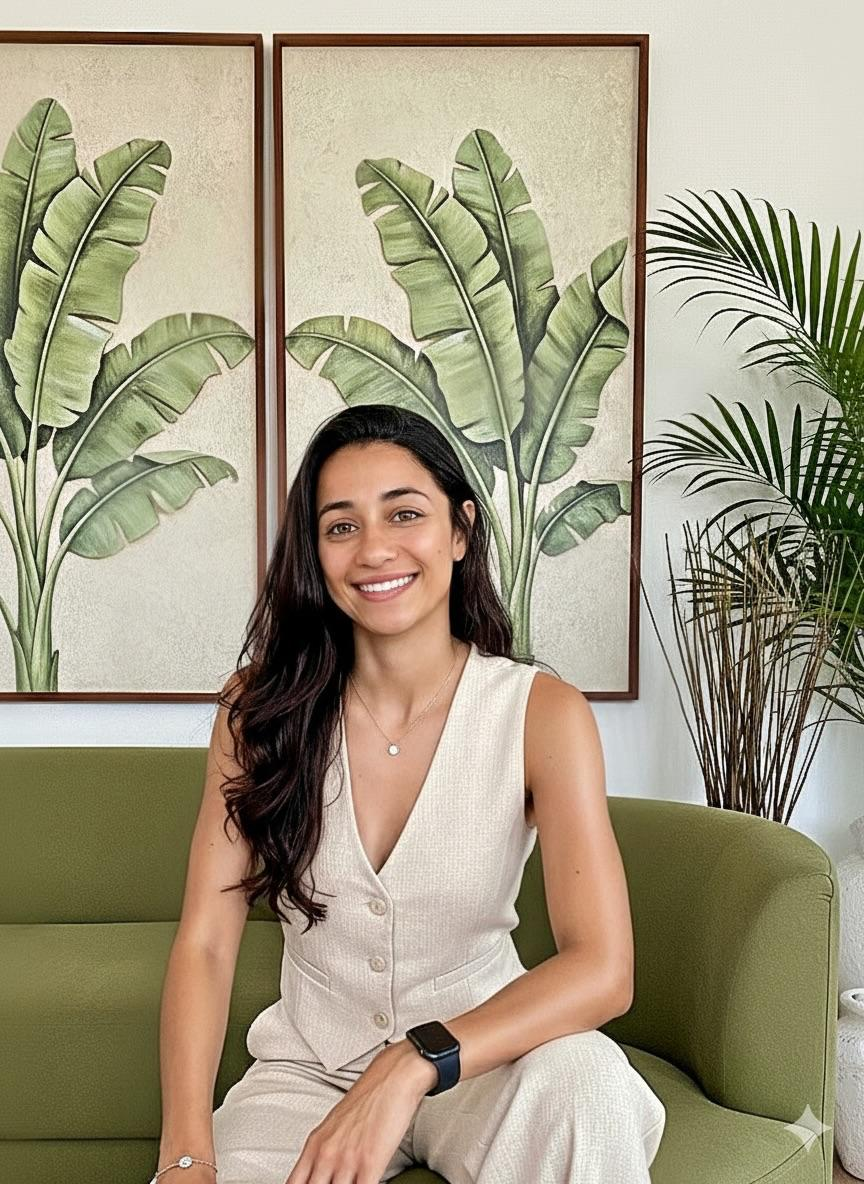
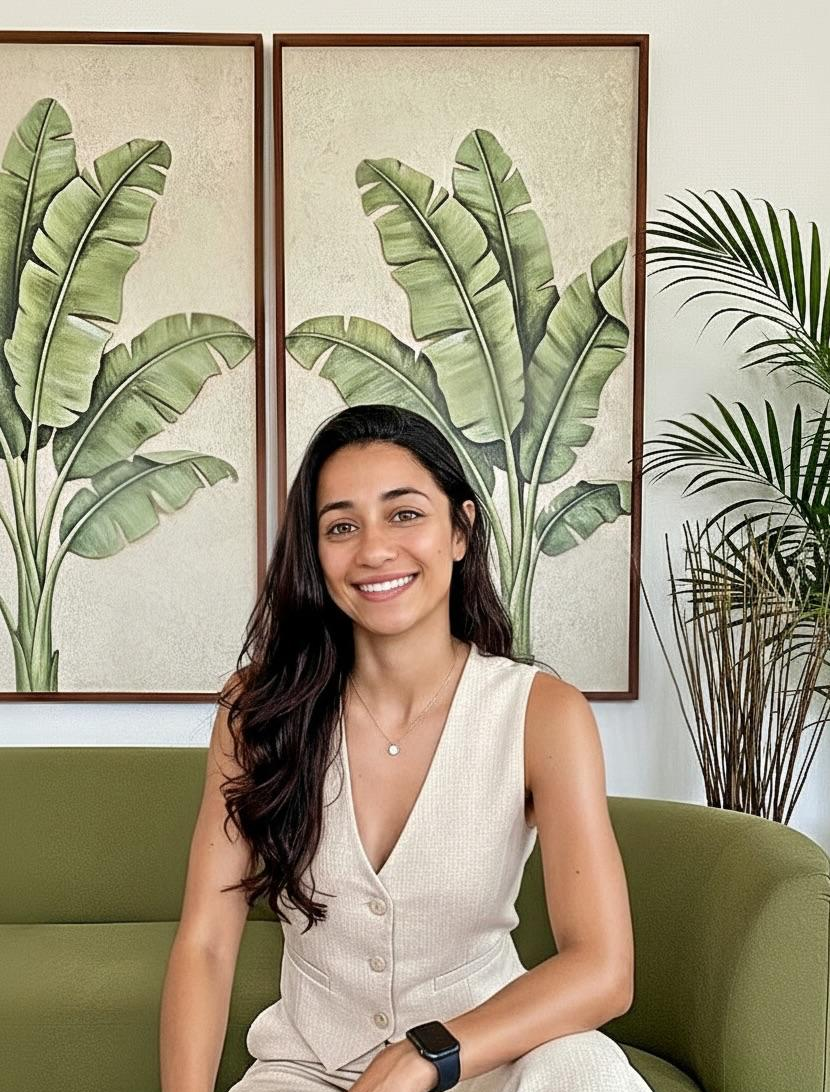
Checkpoint: Correções aplicadas: imagem de fundo do hero trocada pela original (mais realista para São Roque SP), foto da profissional atualizada, CREA mantido visível.

diff --git a/client/src/pages/Home.tsx b/client/src/pages/Home.tsx
@@ -309,7 +309,7 @@ export default function Home() {
       >
         <div
           className="absolute inset-0 bg-cover bg-center"
-          style={{ backgroundImage: "url('/images/hero-garden.jpg')" }}
+          style={{ backgroundImage: "url('/images/hero-original.jpg')" }}
         >
           <div className="absolute inset-0 bg-gradient-to-r from-forest/95 via-forest/80 to-forest/40" />
         </div>